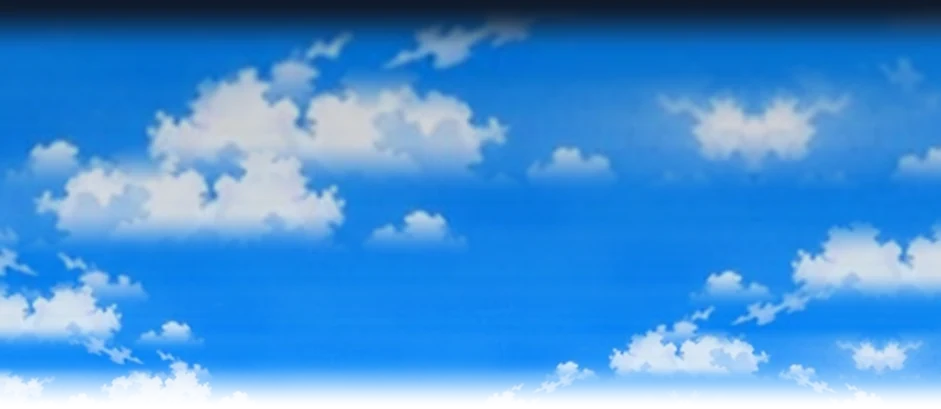
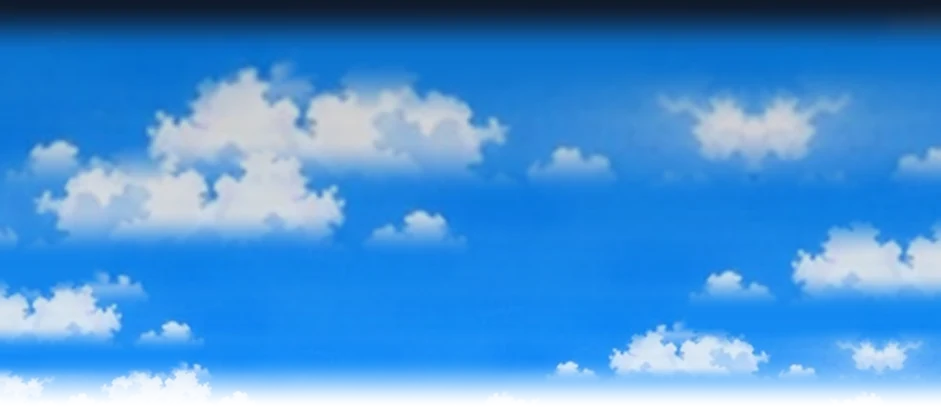
아침·저녁 마을 지도 맞바꾸기, 저녁 하늘 위쪽은 연보라·점심 찢어진 구름 지우기, 여울 위아래 걷기에 다리 움직임 (scripts/sd_step.py)
Claude-Session: https://claude.ai/code/session_01Q4t6Q8VbibbExg6669yjah

diff --git a/scripts/sd_step.py b/scripts/sd_step.py
@@ -1,0 +1,80 @@
+"""앞모습·뒷모습 SD 한 장에서 걷기 두 장을 만든다 (다리를 한쪽씩 들어 올린다).
+
+언덕 마을은 거의 위아래로 걸어서, 앞·뒤 그림 한 장으로는 떠서 미끄러지는 것처럼 보였다.
+다리 사이 틈(가랑이)을 찾아 그 아래를 왼쪽·오른쪽 다리로 나누고, 한쪽 다리를 위로 줄여 발을 든다.
+진짜 걷기 그림(ART_PROMPTS SD 3-1)이 오면 같은 이름으로 바꿔 넣는다.
+
+    python3 scripts/sd_step.py godot/art/yeoul/front.png godot/art/yeoul/walk-front   # walk-front-1/2.png
+    python3 scripts/sd_step.py --preview <png> <그림들>
+"""
+import sys
+
+import numpy as np
+from PIL import Image
+
+LIFT = 0.07       # 든 발이 올라가는 높이 (그림 키 비율)
+SHOE = 0.11       # 신발 높이 (그림 키 비율). 신발은 줄이지 않고 통째로 올린다
+
+
+def legs(a):
+    """가랑이 높이와 다리를 나누는 x. 아래에서 위로 훑어 가운데 틈이 닫히는 줄을 찾는다"""
+    h, w = a.shape
+    solid = a > 40
+    ys, xs = np.where(solid)
+    cx = int((xs.min() + xs.max()) / 2)
+    bottom = ys.max()
+    split, top = None, None
+    for y in range(bottom - int(h * 0.04), int(h * 0.5), -1):
+        row = solid[y, cx - w // 5: cx + w // 5]
+        gap = np.where(~row)[0]
+        if len(gap) == 0:
+            top = y + 1
+            break
+        split = cx - w // 5 + int(np.median(gap))
+    return top, split
+
+
+def step(im, side):
+    a = np.asarray(im)
+    h, w = a.shape[:2]
+    top, split = legs(a[:, :, 3])
+    out = a.copy()
+    x0, x1 = (0, split) if side == 0 else (split, w)
+    bottom = np.where(a[:, x0:x1, 3].max(1) > 40)[0].max() + 1
+    lift = int(h * LIFT)
+    shoe_y = bottom - int(h * SHOE)
+    pants = a[top:shoe_y, x0:x1]
+    shoe = a[shoe_y:bottom, x0:x1]
+    new = np.asarray(Image.fromarray(pants).resize((x1 - x0, pants.shape[0] - lift), Image.LANCZOS))
+    out[top:, x0:x1] = 0
+    out[top:shoe_y - lift, x0:x1] = new
+    out[shoe_y - lift:bottom - lift, x0:x1] = shoe
+    return Image.fromarray(out), top, split
+
+
+def main():
+    args = sys.argv[1:]
+    if args[0] == '--preview':
+        shots = []
+        for p in args[2:]:
+            im = Image.open(p).convert('RGBA')
+            for s in (0, 1):
+                shots.append(step(im, s)[0])
+            shots.append(im)
+        c = Image.new('RGBA', (sum(s.width for s in shots) + 10 * len(shots), max(s.height for s in shots)), (70, 80, 90, 255))
+        x = 0
+        for s in shots:
+            c.alpha_composite(s, (x, 0))
+            x += s.width + 10
+        c.save(args[1])
+        return
+    src, dst = args
+    im = Image.open(src).convert('RGBA')
+    for s in (0, 1):
+        out, top, split = step(im, s)
+        out.save(f'{dst}-{s + 1}.png', optimize=True)
+        print(f'{dst}-{s + 1}.png 가랑이 y={top} 나눔 x={split}')
+
+
+if __name__ == '__main__':
+    main()

diff --git a/scripts/town_sky.py b/scripts/town_sky.py
@@ -21,10 +21,18 @@ CAP, FEATHER = 170, 26          # 논리 좌표 (지도 너비 450)
 
 # 지도마다 나무·산·달이 없는 하늘 조각 (원본 픽셀: x0, x1, y0, y1)
 PATCH = {
-    'morning': (160, 941, 0, 46),
+    'morning': (150, 941, 0, 44),
     'day': (150, 941, 0, 44),
-    'dusk': (150, 941, 0, 44),
+    'dusk': (160, 941, 0, 46),
     'night': (130, 800, 0, 42),
+}
+# 조각 안에서 하늘색으로 지울 곳 (원본 픽셀 x0, x1, y0, y1). 가는 새털구름은 크게 키우면 찢어진 모양이 된다
+ERASE = {
+    'day': [(690, 800, 0, 34), (850, 941, 0, 44)],
+}
+# 노을빛을 뺄 하늘 (저녁): 구름 사이 주황·분홍 빛을 이 연보라로 바꾼다. 구름은 그대로. 지도와 닿는 아래는 원래 색
+CALM = {
+    'dusk': (196, 182, 232),
 }
 
 
@@ -63,7 +71,18 @@ def build(name):
     k = W / 450
     cap, feat = int(CAP * k), int(FEATHER * k)
     x0, x1, y0, y1 = PATCH[name]
-    patch = im[y0:y1, x0:x1]
+    patch = im[y0:y1, x0:x1].copy()
+    for ex0, ex1, ey0, ey1 in ERASE.get(name, []):
+        # 그 줄의 맑은 하늘(흰 구름이 아닌 곳) 색으로 채우고 가장자리는 녹인다
+        for y in range(ey0, ey1):
+            row = patch[y - y0]
+            clear = row[row.min(1) < 200]
+            sky_c = np.median(clear, 0) if len(clear) else row.mean(0)
+            xs = np.arange(ex0 - x0, ex1 - x0)
+            edge = np.minimum(xs - xs[0], xs[-1] - xs) / 12.0
+            edge = np.minimum(edge, (ey1 - y) / 6.0)
+            m = smooth(edge)[:, None]
+            row[xs] = row[xs] * (1 - m) + sky_c * m
     # 조각 안 위아래 밝기 차이(위는 짙고 아래는 옅다)를 펴 둔다. 그대로 쌓으면 띠마다 가로 줄이 생긴다
     rowmean = patch.mean(1, keepdims=True)
     patch = np.clip(patch - rowmean + patch.mean((0, 1), keepdims=True), 0, 255).astype(np.uint8)
@@ -96,6 +115,12 @@ def build(name):
     t = smooth(np.linspace(1, 0, total) ** 0.8)[:, None, None]
     grad = c_bottom * (1 - t) + c_top * t
     sky += grad - patch.mean((0, 1))
+    if name in CALM:
+        lav = np.array(CALM[name], float)
+        warm = smooth((sky[..., 0] - sky[..., 2] + 5) / 40.0)[..., None]   # 빨강이 파랑보다 센 곳 = 노을빛
+        lum = sky.mean(2, keepdims=True) / lav.mean()
+        ramp = smooth((1 - np.linspace(0, 1, total) - FEATHER / (CAP + FEATHER)) / 0.35)[:, None, None]
+        sky = sky * (1 - warm * ramp) + lav * np.clip(lum, 0.85, 1.15) * warm * ramp
     # 맨 위 끝(보통 HUD 밑에 숨는다)은 HUD 남색으로 녹인다. 의뢰 띠가 길어 더 내려 보여도 끝 선이 안 보이게
     deep = np.array([0x0f, 0x1a, 0x2b], float)
     m = smooth(np.linspace(0, 1, int(total * 0.14)))[:, None, None]

diff --git a/godot/scripts/Screens/TownScreen.cs b/godot/scripts/Screens/TownScreen.cs
@@ -863,12 +863,16 @@ namespace Hanjeopsi.App.Screens
                 _route.RemoveAt(0);
             }
             else _yeoulAt += d.Normalized() * stepLen;
-            // 걸음: 옆으로 가면 걷기 두 장(왼쪽이면 뒤집기), 위로 오르면 뒷모습, 내려오면 앞모습
+            // 걸음: 옆으로 가면 걷기 두 장(왼쪽이면 뒤집기), 위로 오르면 뒷모습, 내려오면 앞모습 걷기 두 장 (scripts/sd_step.py)
             int before = (int)_step;
             _step += stepLen / (16 * k);
             if ((int)_step != before) Sound.Play("step", -10 - ((int)_step % 2) * 2);
             string pose;
-            if (Mathf.Abs(d.Y) > Mathf.Abs(d.X) * 1.4f) pose = d.Y < 0 ? "yeoul/back" : "yeoul/front";
+            if (Mathf.Abs(d.Y) > Mathf.Abs(d.X) * 1.4f)
+            {
+                pose = (d.Y < 0 ? "yeoul/walk-back-" : "yeoul/walk-front-") + ((int)_step % 2 + 1);
+                _yeoul.FlipH = false;
+            }
             else
             {
                 pose = "yeoul/walk-" + ((int)_step % 2 + 1);

diff --git a/docs/POLISH.md b/docs/POLISH.md
@@ -77,6 +77,9 @@
 - [x] 의뢰를 들을 때 둘째 줄(마리 수·기한·보상)에서 의뢰인 이름과 그림이 빠지고 선택지가 마당 사람을 덮는다. 조건을 의뢰인 말 한 줄에 붙였다 (폰 5차)
 - [x] 넓은 마당 그림에 비해 SD가 작다. 여울 138→168, 고등어 58→66, 마을 사람 100→122, 의뢰인 104→126 (폰 4차)
 - [x] 꼭대기 전망대를 볼 때 지도 위 끝이 칼로 자른 듯 보인다. 지도 속 진짜 하늘 조각(오른쪽 위 구름·별)을 좌우로 뒤집어 이어 붙이고 위로 갈수록 크게 쌓아 170만큼 하늘을 늘였다(`scripts/town_sky.py` → `town-map-<시간>-sky.webp`, `ArtStage.SkyTexture`). 처음엔 흐린 색으로 칠했는데 블러처럼 보여 바꿨다 (폰, 빌드 #126·#127)
+- [x] 아침·저녁 지도가 바뀌어 보인다: 해 뜨는 주황 그림을 아침(`town-map-morning`), 분홍·연보라 그림을 저녁(`town-map-dusk`)으로 맞바꿨다 (폰, 빌드 #128)
+- [x] 저녁 하늘 위쪽까지 노을빛이 번졌다. 이어 붙인 하늘의 구름 사이 주황·분홍빛을 연보라로(구름은 그대로), 산·바다와 닿는 아래만 노을빛 (`town_sky.py CALM`). 점심 하늘의 찢어진 새털구름은 조각에서 지웠다 (`ERASE`) (폰, 빌드 #128)
+- [x] 위아래로 걸을 때 여울이 떠서 미끄러지는 것 같다(언덕길이라 거의 위아래). 앞·뒤 그림에서 다리를 한쪽씩 들어 올린 걷기 두 장씩(`yeoul/walk-front-1/2`, `walk-back-1/2`, `scripts/sd_step.py`). 진짜 걷기 시트(SD 3-1)가 오면 같은 이름으로 바꾼다 (폰, 빌드 #128)
 
 ## 4. 위판장
 

diff --git a/docs/ART_PROMPTS.md b/docs/ART_PROMPTS.md
@@ -934,7 +934,7 @@ Style: soft painterly watercolor illustration matching the attached backgrounds 
 - 낮 그림에 가로등이 있으니 새벽·저녁·밤은 **같은 가로등을 켜고 끄기만** 한다. 새 가로등이나 물건을 더하지 않는다.
 
 #### 지도 기준 바꿈 (2026-10-28, 사용자 결정): 노을 지도
-- 사용자가 고른 기준 그림은 S자 길·할머니댁 한옥·광장 가로등·오른쪽 아래 방파제와 빨간 등대가 있는 **노을 지도**(`godot/art/backgrounds/town-map-dusk.webp`, 941×1672)다. 걷는 길 데이터는 이 배치로 만든다.
+- 사용자가 고른 기준 그림은 S자 길·할머니댁 한옥·광장 가로등·오른쪽 아래 방파제와 빨간 등대가 있는 **해 뜨는 주황 지도**(`godot/art/backgrounds/town-map-morning.webp`, 941×1672. 처음엔 노을 지도로 받았는데 2026-10-29 사용자 의견으로 아침 그림과 맞바꿨다)다. 걷는 길 데이터는 이 배치로 만든다.
 - 아래 "지도 1 최종"(네 번째 그림)은 배치가 달라서 레포에서 뺐다. 낮·새벽·밤은 **노을 지도를 첨부**해 "지도 낮" 프롬프트와 지도 2~4의 새벽·밤 프롬프트로 다시 뽑는다.
 
 ```

diff --git a/docs/GAME_DESIGN.md b/docs/GAME_DESIGN.md
@@ -175,9 +175,9 @@
 
 | 칸 | 마을 지도 | 경매 | 낚시 | 여울호 | 미끼가게 |
 |---|---|---|---|---|---|
-| 아침 | town-map-morning (해 뜰 녘 분홍빛) | 열림 | 아침 고기 (어종 새벽·아침 가중치 평균) | 닫음 | 열림 |
+| 아침 | town-map-morning (바다 위로 해가 뜨는 주황빛) | 열림 | 아침 고기 (어종 새벽·아침 가중치 평균) | 닫음 | 열림 |
 | 점심 | town-map-day | 열림 | 점심 고기 | 닫음 | 열림 |
-| 저녁 | town-map-dusk | 마감 | **안 됨** | **장사** | 열림 |
+| 저녁 | town-map-dusk (분홍·연보라 저녁 하늘) | 마감 | **안 됨** | **장사** | 열림 |
 | 밤 | town-map-night | 마감 | 밤낚시 (갈치·붕장어·볼락). 8일 노씨 장면(`nossiLamp`, 케미라이트) 뒤에 열린다 | 닫음 | 닫음 |
 
 - 출조 한 번 = 캐스팅 5번(`chapter1.castsPerTrip`). 하루 낚시 두 번(밤낚시가 열리면 세 번).
